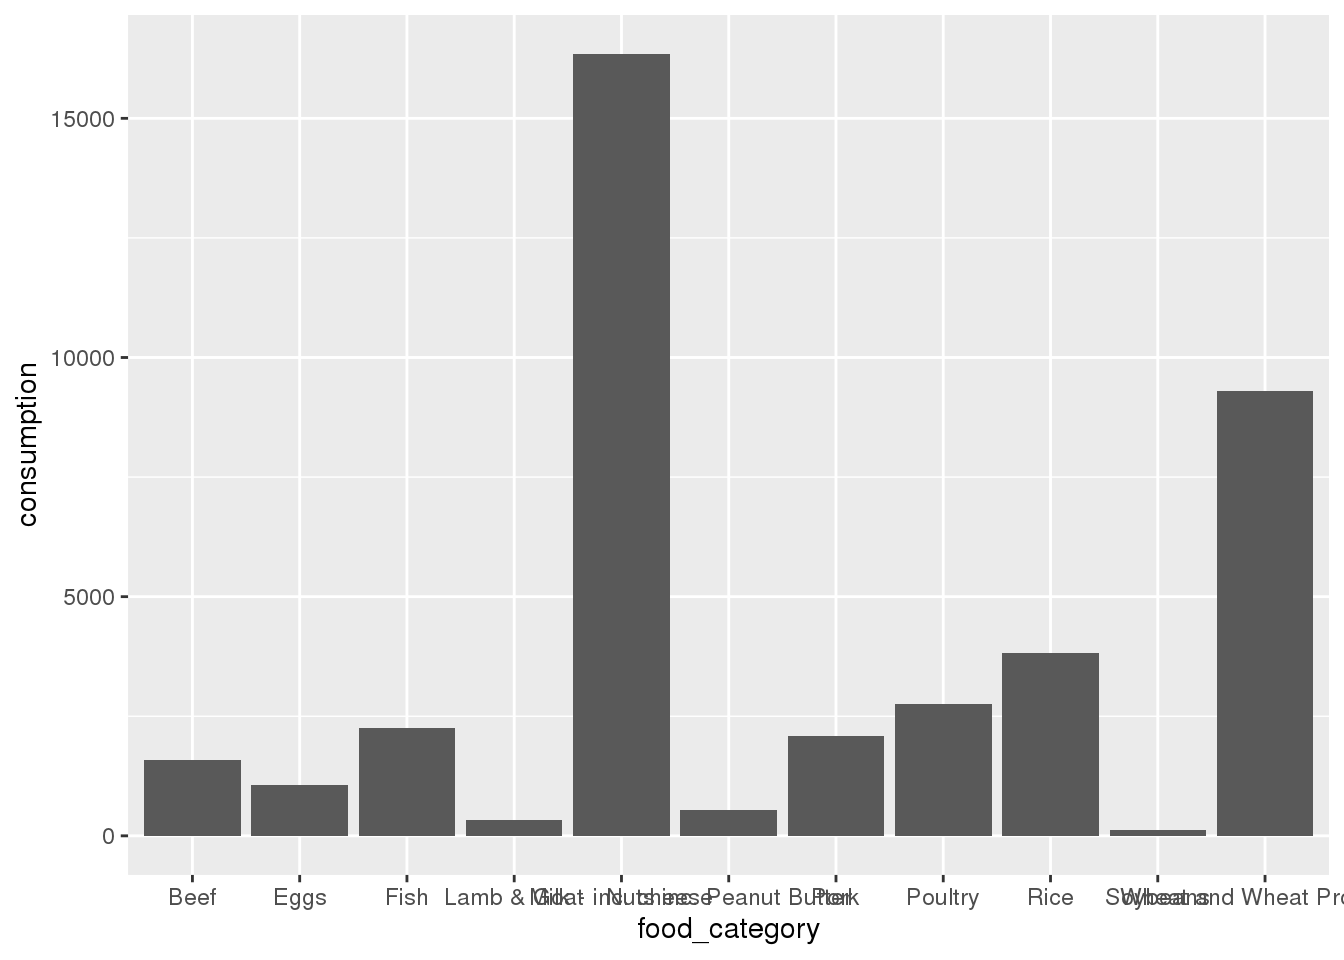
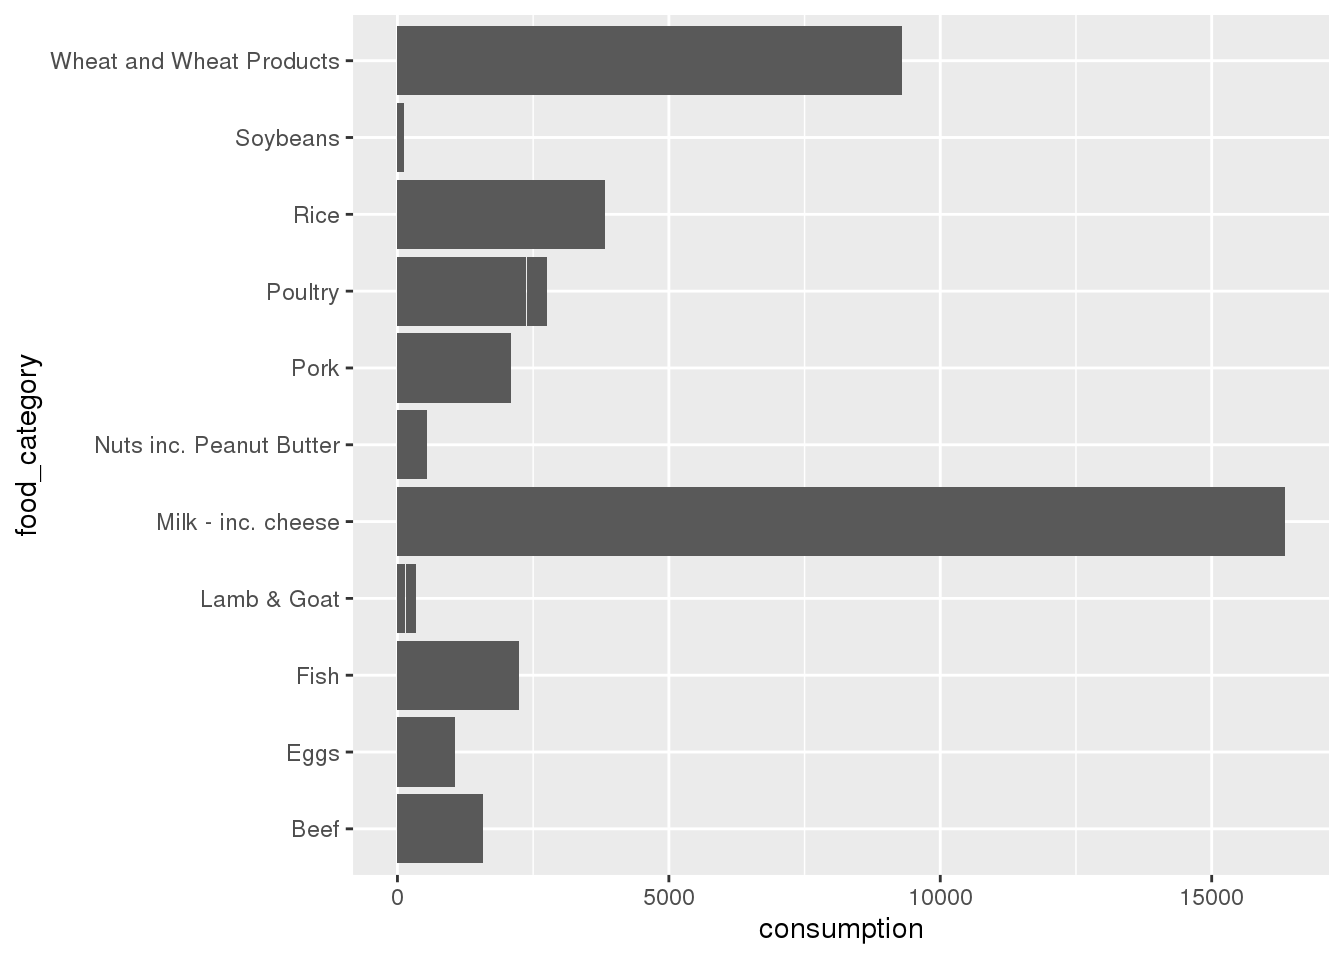
fix

diff --git a/public/2020/12/07/carbon-footprint-of-food-groups/index.html b/public/2020/12/07/carbon-footprint-of-food-groups/index.html
@@ -158,10 +158,9 @@ library(dplyr)</code></pre>
 
 p&lt;-ggplot(data=df, aes(x=food_category, y=consumption)) +
   geom_bar(stat=&quot;identity&quot;)
-p</code></pre>
+
+p + coord_flip()</code></pre>
 <p><img src="/post/food_files/figure-html/unnamed-chunk-3-1.png" width="672" /></p>
-<pre class="r"><code>p + coord_flip()</code></pre>
-<p><img src="/post/food_files/figure-html/unnamed-chunk-3-2.png" width="672" /></p>
 <p>QUESTION 3:How much co2 does each country create per year?</p>
 <p>COUNTRY v.s. CO2</p>
 <pre class="r"><code>dt &lt;- data.frame(readr::read_csv(&#39;https://raw.githubusercontent.com/rfordatascience/tidytuesday/master/data/2020/2020-02-18/food_consumption.csv&#39;))</code></pre>

diff --git a/content/post/food.html b/content/post/food.html
@@ -88,10 +88,9 @@ library(dplyr)</code></pre>
 
 p&lt;-ggplot(data=df, aes(x=food_category, y=consumption)) +
   geom_bar(stat=&quot;identity&quot;)
-p</code></pre>
+
+p + coord_flip()</code></pre>
 <p><img src="/post/food_files/figure-html/unnamed-chunk-3-1.png" width="672" /></p>
-<pre class="r"><code>p + coord_flip()</code></pre>
-<p><img src="/post/food_files/figure-html/unnamed-chunk-3-2.png" width="672" /></p>
 <p>QUESTION 3:How much co2 does each country create per year?</p>
 <p>COUNTRY v.s. CO2</p>
 <pre class="r"><code>dt &lt;- data.frame(readr::read_csv(&#39;https://raw.githubusercontent.com/rfordatascience/tidytuesday/master/data/2020/2020-02-18/food_consumption.csv&#39;))</code></pre>
